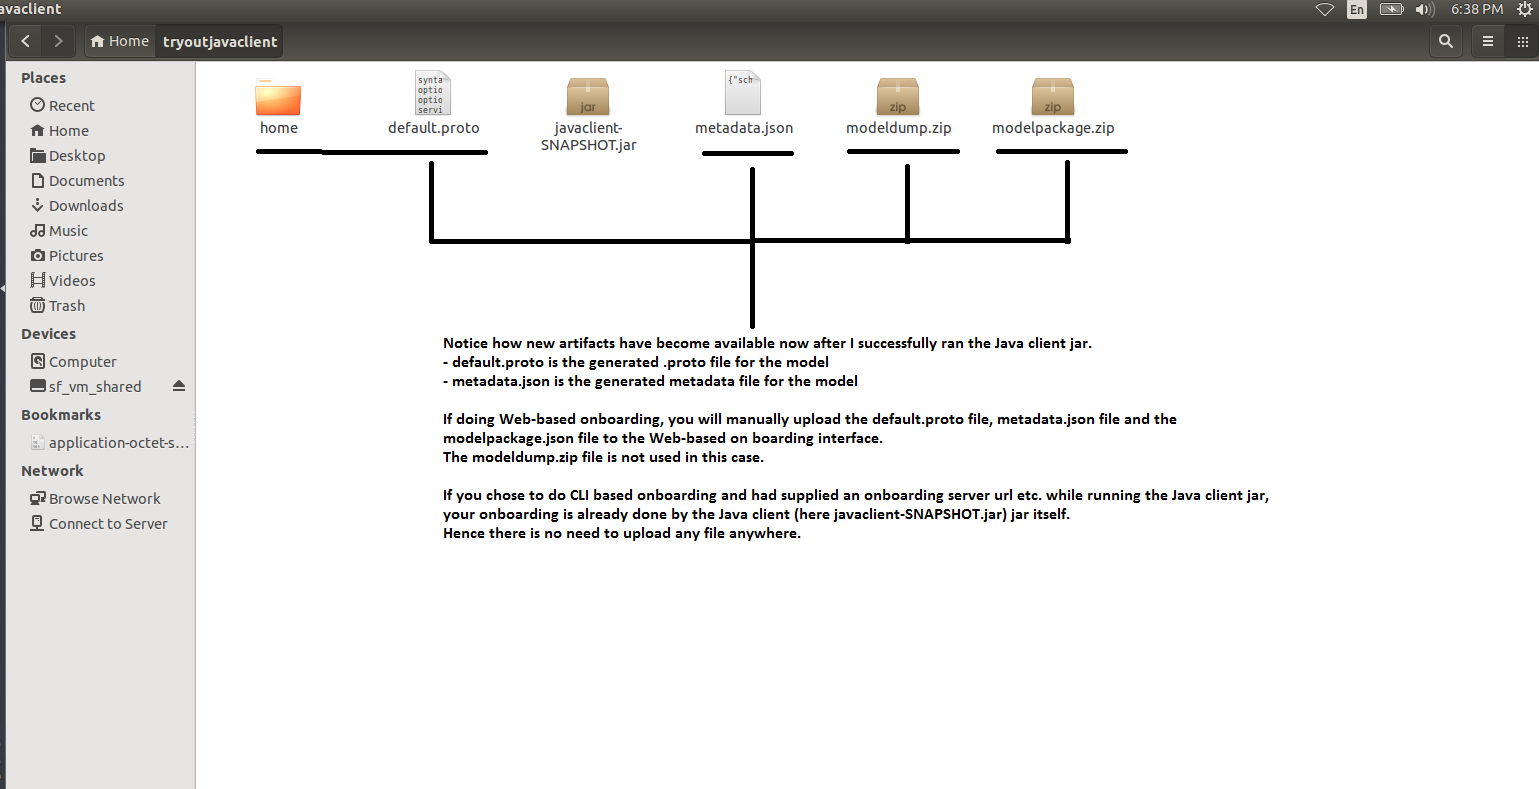
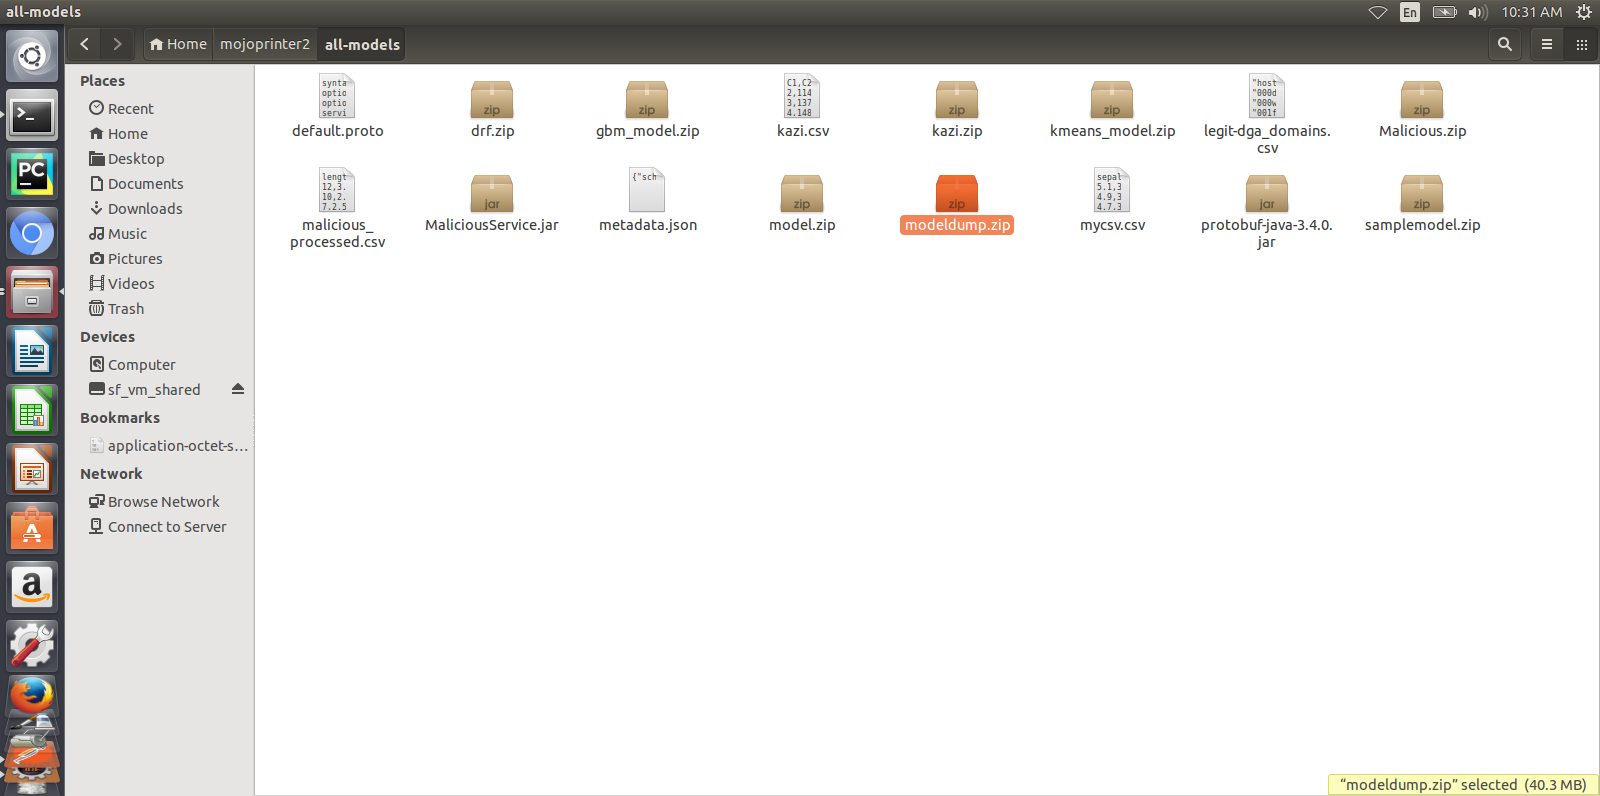
Update Documentation
Update documentation partially

Issue-ID: ACUMOS-1449

Changed region(s): [[0.0, 0.0, 1.0, 1.0], [0.2807, 0.5171, 0.8421, 0.6996], [0.2807, 0.4259, 0.7173, 0.4867]]

diff --git a/docs/developer-guide.rst b/docs/developer-guide.rst
@@ -129,14 +129,18 @@ Preparing to Onboard your H2o or a Generic Java Model:
 ------------------------------------------------------
 a. Place Java Client jar in one folder locally. This is the folder from which you intend to run the jar. After the jar runs, the created artifacts will also be available in this folder. You will use some of these artifacts if you are doing Web-based onboarding. We will see this later.
 
-b. Create an additional supporting folder which will contain all that the Java Client jar needs to run. It will contain-
+ |image0|
 
-i) Models - In case of H2o, your model will be a MOJO zip file. In case of Generic Java, your model will be .jar file. We have included sample models for you to play around with.
-ii) Model runner or Service jar - For H2O rename h2o-genericjava-modelrunner.jar obtained from the 1st section to H2OModelService.jar. Place it in this folder.
-Rename the jar as GenericModelService.jar for Generic Java onboarding
-iii) csv file used for training the model - Place the csv file (with header having the same column names used for training) you used for training the model here. This is used for autogenerating the .proto file. If you don't have the .proto file, you will have to supply the .proto file yourself in the supporting folder. Make sure you name it default.proto
-iv) default.proto - This is only needed if you don't have the csv file used to train the model. In this case, Java Client cannot autogenerate the .proto file. You will have to supply the .proto file yourself in the supporting folder. Make sure you name it default.proto Also make sure, 
-the default.proto file for the model is in the following format. You need to appropriately replace the data and datatypes under DataFrameRow and Prediction according to your model.
+b. Prepare a supporting folder with the following contents. Items of this folder will be used as input for the java client jar. 
+
+ |image1|
+
+It will contain-
+i) Models - In case of H2o, your model will be a MOJO zip file. 
+ii) Protobuf compiler for java version 3.4.0 - Download protobuf-java-3.4.0.jar from http://central.maven.org/maven2/com/google/protobuf/protobuf-java/3.4.0/ and place it in this folder.
+iii) Model runner or Service jar - For H2O rename h2o-genericjava-modelrunner.jar obtained from the 1st section to abcService.jar if your model name is abc. Place it in this folder. 
+iv) csv file used for training the model - Place the csv file (with header having the same column names used for training but without the quotes (“ ”) ) you used for training the model here. This is used for autogenerating the .proto file. If you don’t have the .proto file, you will have to supply the .proto file yourself in the supporting folder. Make sure you name it default.proto.
+v)  default.proto - This is only needed if you don’t have the csv file used to train the model. In this case, Java Client cannot autogenerate the .proto file. You will have to supply the .proto file yourself in the supporting folder. Make sure you name it default.proto Also make sure, the default.proto file for the model is in the following format. You need to appropriately replace the data and datatypes under DataFrameRow and Prediction according to your model.
 
 .. code-block:: python
 
@@ -162,6 +166,45 @@ the default.proto file for the model is in the following format. You need to app
    }
 
 vi) application.properties file - Mention the port number on which the service exposed by the model will finally run on.
+
+
+.. code-block:: python
+
+   server.contextPath=/modelrunner       
+   # IF WORKING WITH MODEL CONNECTOR AND COMPOSITE SOLUTION, THE #server.contextPath will be / 
+   # NOTE: THIS WILL TAKE AWAY SWAGGER
+   server.port=8336
+
+   spring.http.multipart.max-file-size=100MB
+   spring.http.multipart.max-request-size=100MB
+
+   # Linux version
+
+   #default_model=/models/model.jar
+   default_model=/models/Model.zip
+   default_protofile=/models/default.proto
+
+   logging.file = ./logs/modelrunner.log 
+
+   # The value of model_type can be H or G
+   # if model_type is H, then the /predict method will use H2O model; otherwise, it will use generic Model
+   # if model_type is not present, then the default is H
+
+   model_type=H
+   model_config=/models/modelConfig.properties
+
+   # Linux some properties are specific to java generic models
+
+   # The plugin_root path has to be outside of ModelRunner root or the code won't work 
+   # Default proto java file, classes and jar
+   # DatasetProto.java will be in $plugin_root\src
+   # DatasetProto$*.classes will be in $plugin_root\classes
+   # pbuff.jar will be in $plugin_root\classes
+
+   plugin_root=/tmp/plugins
+
+
+
 vii) modelConfig.properties - Add this file only in case of Generic Java model onboarding. This file contains the modelMethod and modelClassName of the model.
 
 
@@ -171,13 +214,18 @@ Onboarding your model
 
 Java Client jar is the executable client jar file.
 
-For Web-based onboarding of H2o models, the parameters to run the client jar are: 
+For Web-based onboarding of H2o models, the parameters to run the client jar are:
+1.	Current Folder path : Folder path where you want the output modeldump.zip file.
+2.	Model Type for H2o : H
+3.	Supporting folder path : Full Folder path of the supporting folder which contains items
+4.	Name of the model : For h2o just the name of the model without the .zip extension. Make sure this matches name of the supplied MOJO model file exactly.
+5.	Input csv file : csv file that was used for training the model. Include the .csv extension in the csv file name. This will be used to autogenerate the default.proto file. This parameter will be empty if you yourself have supplied a default.proto for your model.
 
-1. Current Folder path : Full folder path in which Java client jar is placed and run from.
-2. Model Type for H2o : H 
-3. Supporting folder path : Full Folder path of the supporting folder which contains items 
-4. Name of the model : For h2o just the name of the model without the .zip extension. Make sure this matches name of the supplied MOJO model file exactly.
-5. Input csv file : csv file that was used for training the model. Include the .csv extension in the csv file name. This will be used to autogenerate the default.proto file. This parameter will be empty if you yourself have supplied a default.proto for your model.
+See example below for how to run the client jar and how the modeldump.zip artifact appears after its successful run:
+ |image2|
+ 
+ |image3|
+ 
 
 For CLI-based onabording of H2o models, the parameters to run the client jar are: 
 
@@ -210,27 +258,6 @@ For CLI-based onabording of Generic models, the parameters to run the client jar
 7. Password of the Portal MarketPlace account
 8. Input csv file : csv file that was used for training the model. Include the .csv extension in the csv file name. This will be used to autogenerate the default.proto file. This parameter will be empty if you yourself have supplied a default.proto for your model.
 
-----------------------------------------
-Example onboarding and folder structure:
-----------------------------------------
-1. I place my Javaclient.jar in /home/deven/tryoutjavaclient/ folder. This is where I intend to run the jar from. After the jar runs, the created artifacts will also be available in this folder.
-
-|image0|
-
-2. I prepare a supporting folder /home/deven/mojoprinter2/all-models like so. It has everything I need to onboard my java model.
-In this case, I am onboarding samplemodel.zip which is a K-means Clustering H2o model which does partitioning of a large calls dataset.
-
-|image1|
-
-3. I intend to do Web-based onboarding for my H2o model called samplemodel.zip. And I intend to use the proto file autogeneration capabilities of the Java client.
-So I also pass along the csv file I used to train it. The sample command looks like this-
-
-|image2|
-
-4. Now I go back to /home/deven/tryoutjavaclient/ (i.e from where I ran the Java client) to find the generated artifacts. I will now manually upload the metadata.json file, modelpackage.zip and the default.proto file to the web interface of the marketplace.
-
-|image3|
-
  
 How to Test
 ===========
@@ -250,8 +277,11 @@ Onboarding/ Publishing to the Acumos marketplace
 - If you use Web-based onboarding, 
 a. After you run the client, you will see a modeldump.zip file generated in the same folder where we ran the Java Client for.
 b. Upload this file in the Web based interface. 
-c. Enter the model's name. This name should be same as the one you named it when running the jar.
+c. Enter a name for the model.
 d. You will be able to see a success method in the Web interface. you will be able to see a success method in the Web interface. 
+
+ |image9|
+
 - If you use CLI based onboarding,  you don't need to perform a-d outlined just above. The Java client will do it for you. You will see a message on the terminal that tells it was onboarded succesfully.
 - The needed TOSCA artifacts, docker images are produced and the model is published to the marketplace.
 - You and your teammates can now see, rate, review, comment, collaborate on your model in the Acumos marketplace.
@@ -345,7 +375,7 @@ Here is a sample H2o iris example program that shows how a model can be created 
  |image8|
  
 
-.. |image0| image:: ./images/before_running_javaclient.PNG
+.. |image0| image:: ./images/downloaded_java_client.png
 .. |image1| image:: ./images/supporting_folder.PNG
 .. |image2| image:: ./images/running_the_java_client.PNG
 .. |image3| image:: ./images/after_running_java_client.PNG
@@ -354,3 +384,4 @@ Here is a sample H2o iris example program that shows how a model can be created 
 .. |image6| image:: ./images/3.png
 .. |image7| image:: ./images/4.png
 .. |image8| image:: ./images/5.png
+.. |image9| image:: ./images/upload_modeldump.png
